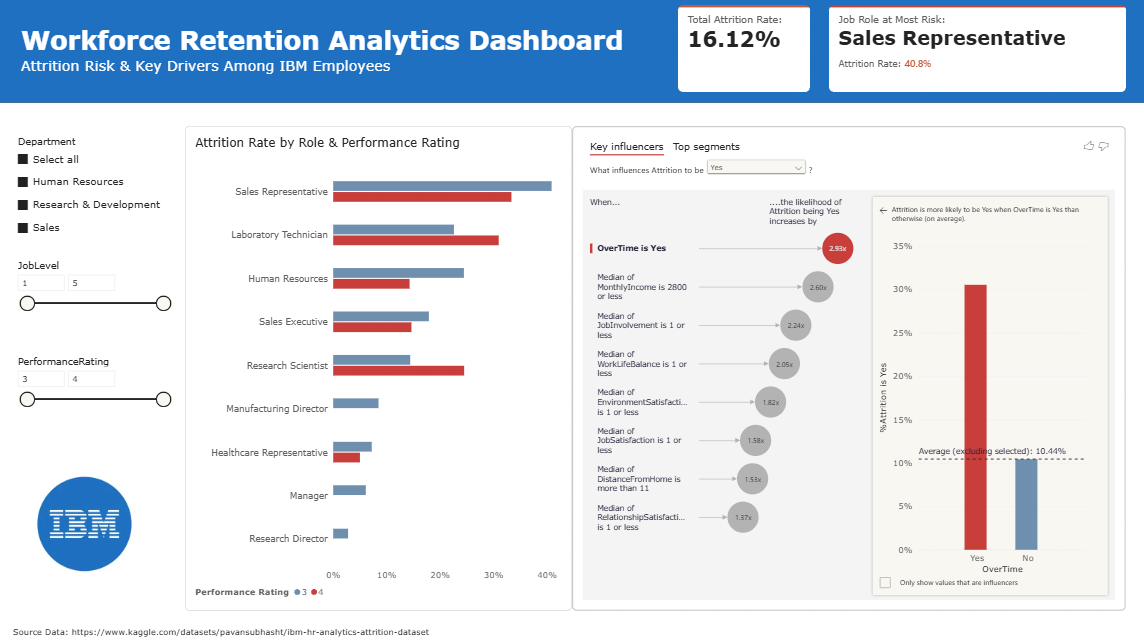
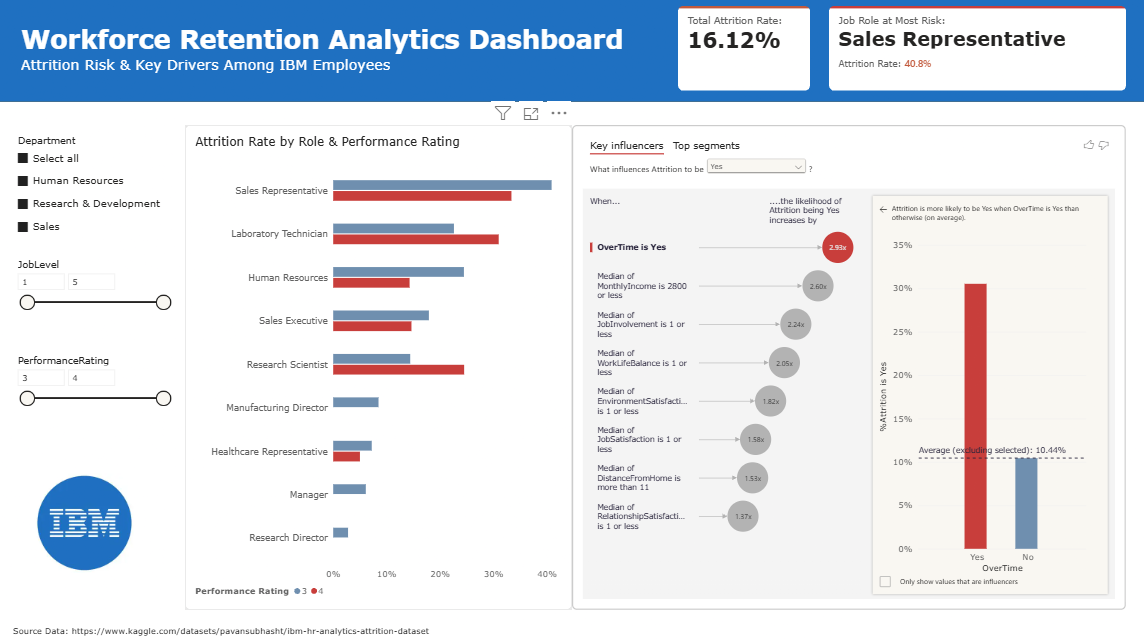
Update dashboard, png, and README.md for final touches.

diff --git a/README.md b/README.md
@@ -1,28 +1,29 @@
 # Workforce Retention Analytics Dashboard
 
-Interactive Power BI dashboard analyzing employee attrition—specifically targeting high-performing talent (`PerformanceRating >= 3`)—across job roles, performance tiers, and operational turnover drivers using the IBM HR Analytics dataset.
+Interactive Power BI dashboard analyzing employee attrition, specifically targeting high-performing talent (`PerformanceRating >= 3`) across job roles, performance tiers, and operational turnover drivers using the IBM HR Analytics dataset.
 
 ![Workforce Retention Analytics Dashboard](IBM-Workforce-Retention-Analytics-Dashboard.png)
 
 ## 1. Data Reconciliation & Preparation
-* **Source & Grain:** IBM HR Analytics Employee Attrition & Performance dataset (`IBM_HR_Data_Ready`), structured at the individual employee record level across departments, job roles, job levels, and performance ratings.
+* **Source & Grain:** IBM HR Analytics Employee Attrition & Performance dataset (`IBM_HR_Data_Ready`), structured at the individual employee record level across departments, job roles, job levels, performance ratings, and other employee attributes. See data source here at https://www.kaggle.com/datasets/pavansubhasht/ibm-hr-analytics-attrition-dataset
 * **Data Type & Integrity Audits:**
   * Verified and standardized column data types prior to modeling (confirming numeric fields such as `PerformanceRating` and `JobLevel` are stored as numbers rather than text, and `Attrition` flags are cleanly standardized).
-  * Audited missing values, duplicate records, and category labels so aggregated employee headcount and attrition percentages reconcile accurately.
+  * Audited missing values, duplicate records, and category labels so aggregated employee headcount and attrition percentages reconcile accurately. Documentation of data audit in the `IBM Workforce Retention and Competency Analytics Workbook.xlsx`
+  * Flagged outliers through Python Pandas Library, utilizing the IQR method in `outlier_flagging.ipynb` to produce the data-ready CSV file.
 * **Measure & Visual Sanity Checks:**
   * Built transparent DAX measures (`MAXX`, `TOPN`, `SUMMARIZE`, `CONCATENATEX`) with explicit percentage formatting (`0.0%` / `0.00%`) so KPI callouts and reference labels remain accurate across slicer selections.
 * **Analytical Scope:** Focused retention risk evaluation on high-performing employees (`PerformanceRating` 3–4) while keeping full interactive filtering (`Department`, `JobLevel`, `PerformanceRating`) available on the report canvas.
 
 ## 2. Answering Key Business Questions
 * **What is our baseline attrition exposure?**
-  * Across the full employee scope, overall attrition stands at **16.12%**, providing a clear organizational baseline to evaluate disproportionate turnover pockets.
+  * Across the full employee scope, overall attrition stands at **16.12%**.
 * **Which roles and performance tiers face the highest regrettable turnover risk?**
-  * High-performer attrition is heavily concentrated in specific roles: **Sales Representative** emerges as the highest-risk role at **40.8%** attrition in the top risk slice, followed by elevated attrition in **Laboratory Technician** (particularly among Rating 4 top performers) and **Human Resources**.
+  * High-performer attrition is heavily concentrated in specific roles: **Sales Representative** emerges as the highest-risk role at **40.8%** attrition in the top risk slice, followed by elevated attrition in **Laboratory Technician** and **Human Resources**.
 * **What operational factors are most strongly associated with employees leaving?**
   * Key influencer modeling identifies **OverTime = Yes** as the top driver—increasing the likelihood of attrition by **2.93x**—followed by lower compensation (**MonthlyIncome <= $2,800** at **2.60x**) and lower **JobInvolvement** (**2.24x**), pointing directly to workload burnout, pay compression, and engagement as actionable retention levers.
 
 ## 3. Repository Structure & Interactive Access
-* `powerbi/Workforce_Retention_Analytics.pbix` — Interactive Power BI report file containing the data model, DAX measures, and visual layout.
+* `Workforce_Retention_Analytics.pbix` — Interactive Power BI report file containing the data model, DAX measures, and visual layout.
 * `IBM-Workforce-Retention-Analytics-Dashboard.png` — Full-resolution preview of the dashboard.
 
 > **How to Explore Interactively:** Download the `.pbix` file and open it in Power BI Desktop to filter dynamically by `Department`, `JobLevel` (`1`–`5`), and `PerformanceRating` (`3`–`4`).
